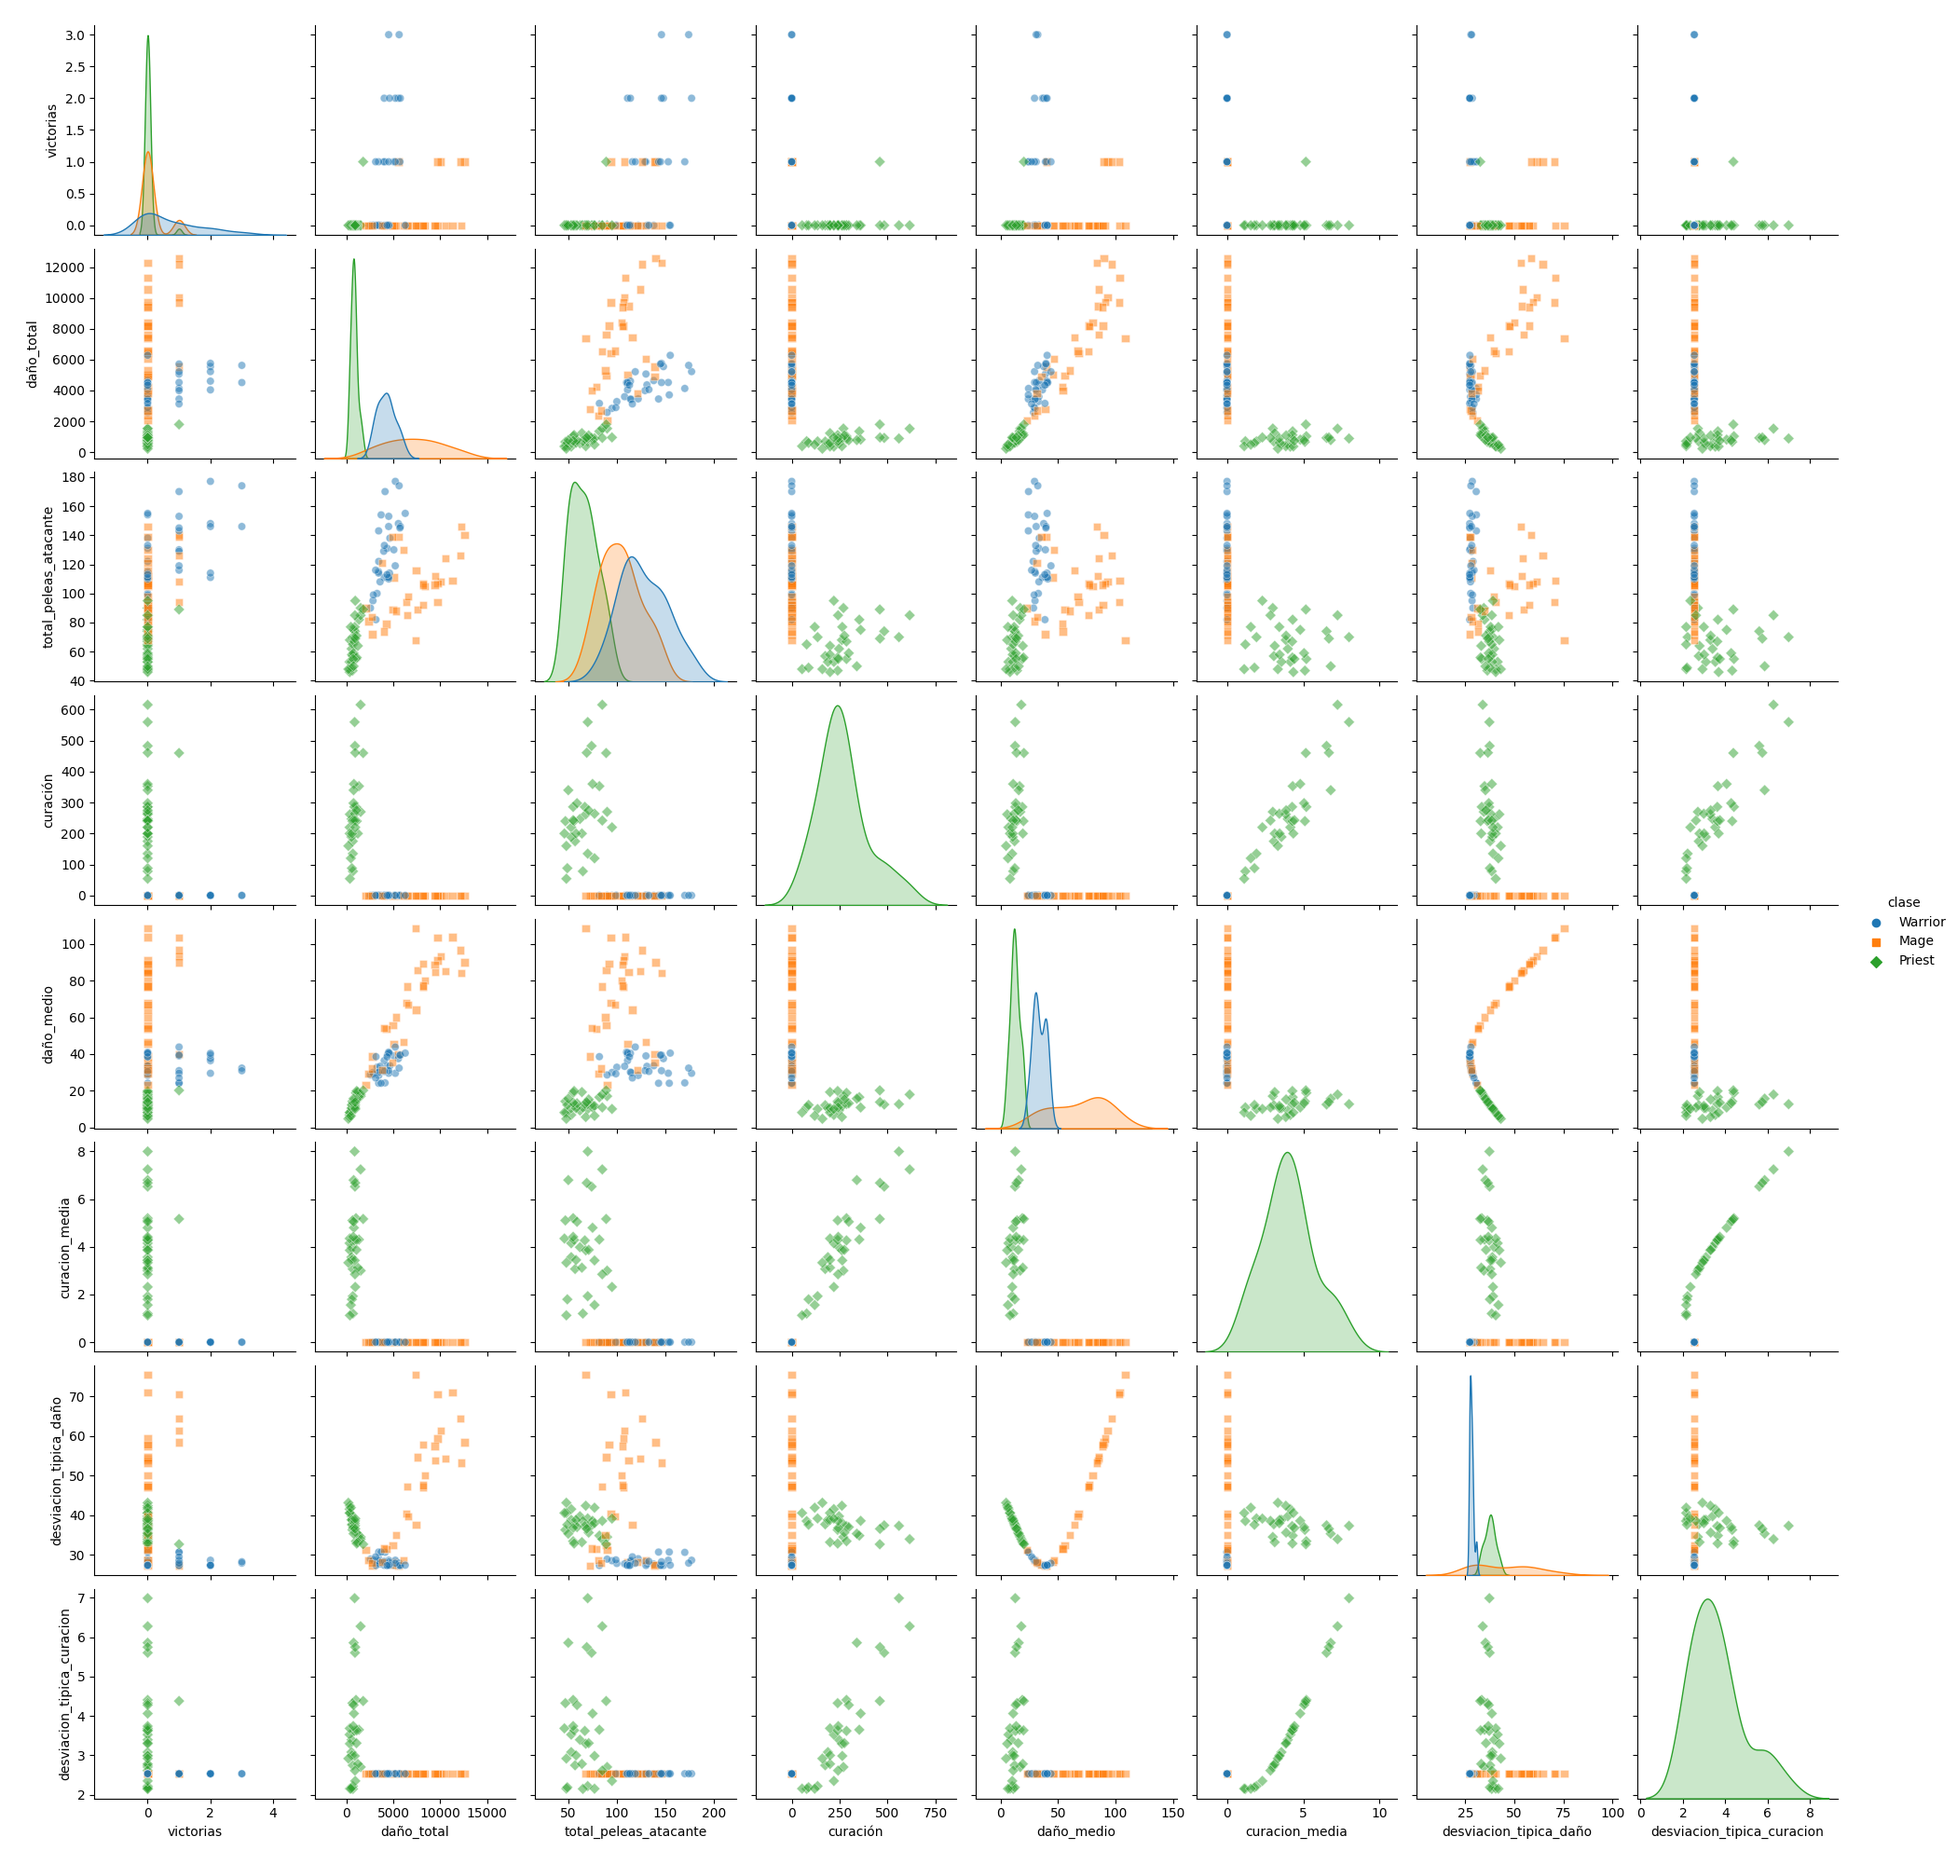
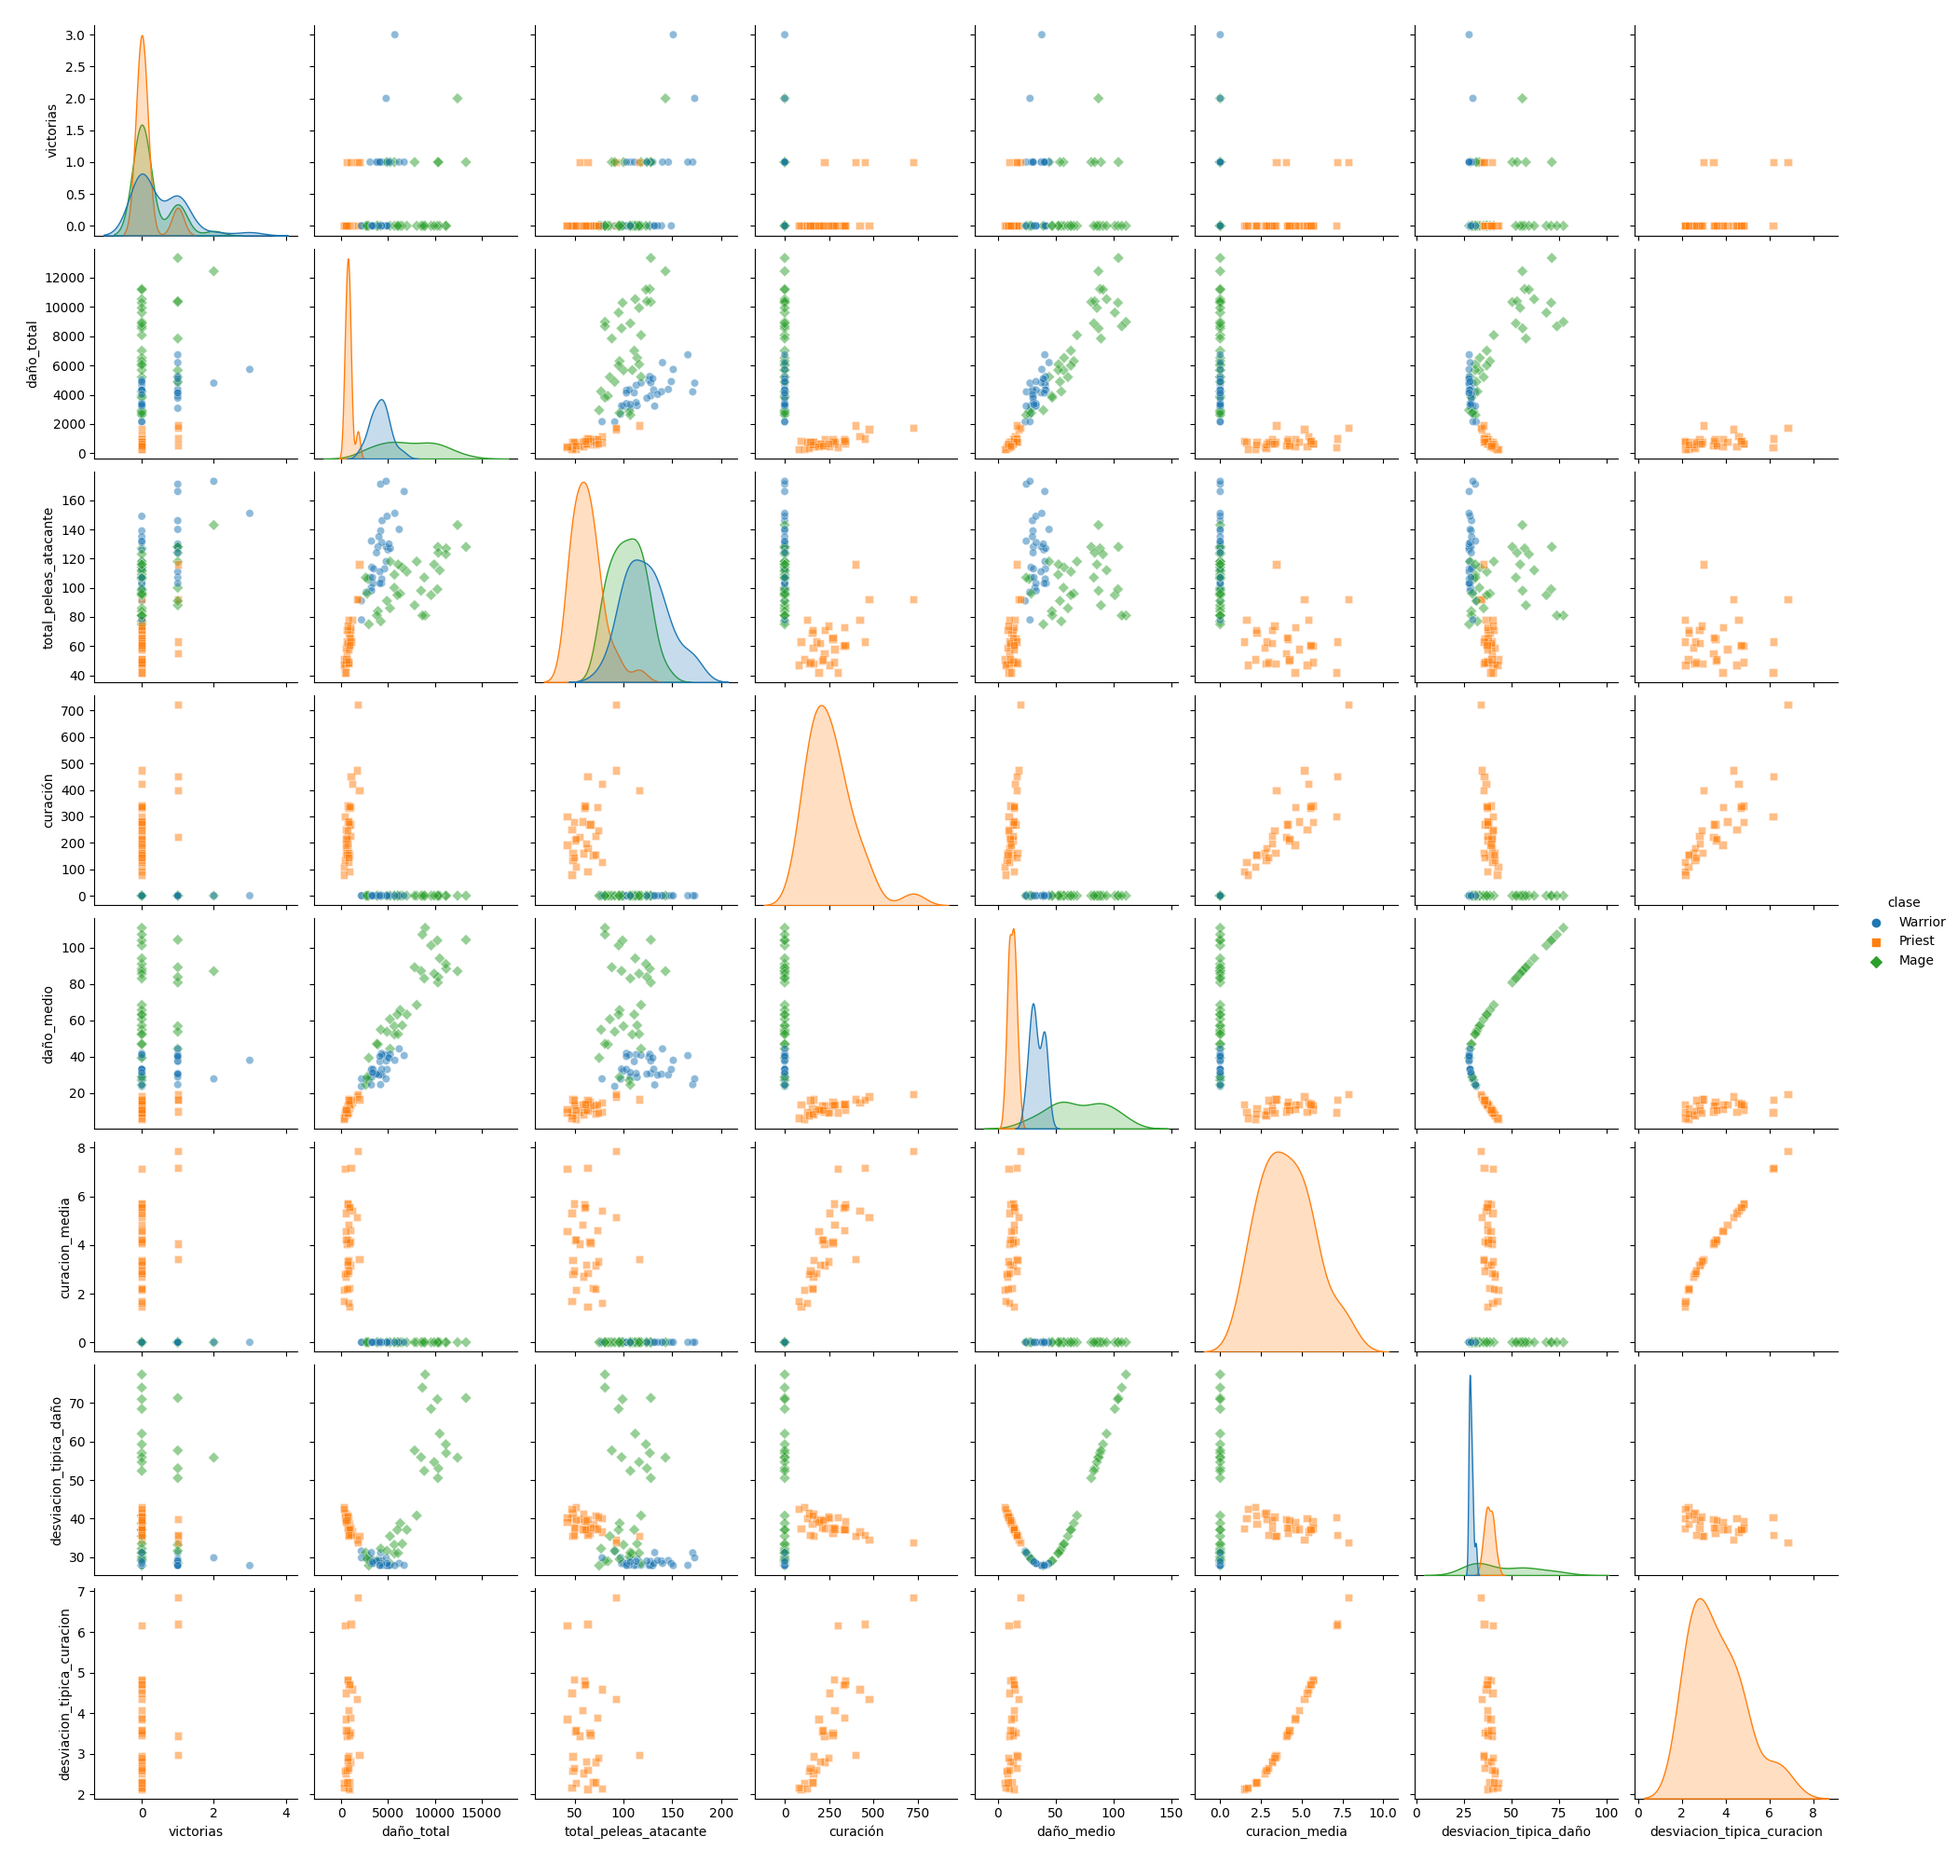
Update 5 files

diff --git a/Practica1-20230215/materiales/main.py b/Practica1-20230215/materiales/main.py
@@ -42,7 +42,7 @@ def run(path):
     df["curacion_media"] = df["curación"] / df["total_peleas_atacante"]
 
     df["desviacion_tipica_daño"] = df["daño_medio"].apply(lambda x: np.sqrt(((df["daño_medio"] - x)**2).sum() / df["daño_medio"].count()))
-    df["desviacion_tipica_curacion"] = df["curacion_media"].apply(lambda x: np.sqrt(((df["curacion_media"] - x)**2).sum() / df["curacion_media"].count()))
+    df["desviacion_tipica_curacion"] = np.where(df['clase'] == 'Priest', df["curacion_media"].apply(lambda x: np.sqrt(((df["curacion_media"] - x)**2).sum() / df["curacion_media"].count())), np.nan)
 
 
     #Ordenamos el DataFrame por numero de victorias (en orden descendente)

diff --git a/Practica1-20230215/materiales/combat.py b/Practica1-20230215/materiales/combat.py
@@ -70,10 +70,6 @@ def combat(personajes):
         elif len(personajes)==1:
             resultados[attacker.get_name()]["victorias"] += 1
 
-        if len(personajes)==1:
-            print(personajes[0].get_name())
-            print("El ganador es",attacker.get_name())
-
         winner = attacker
         
         if isinstance(winner, Warrior):
